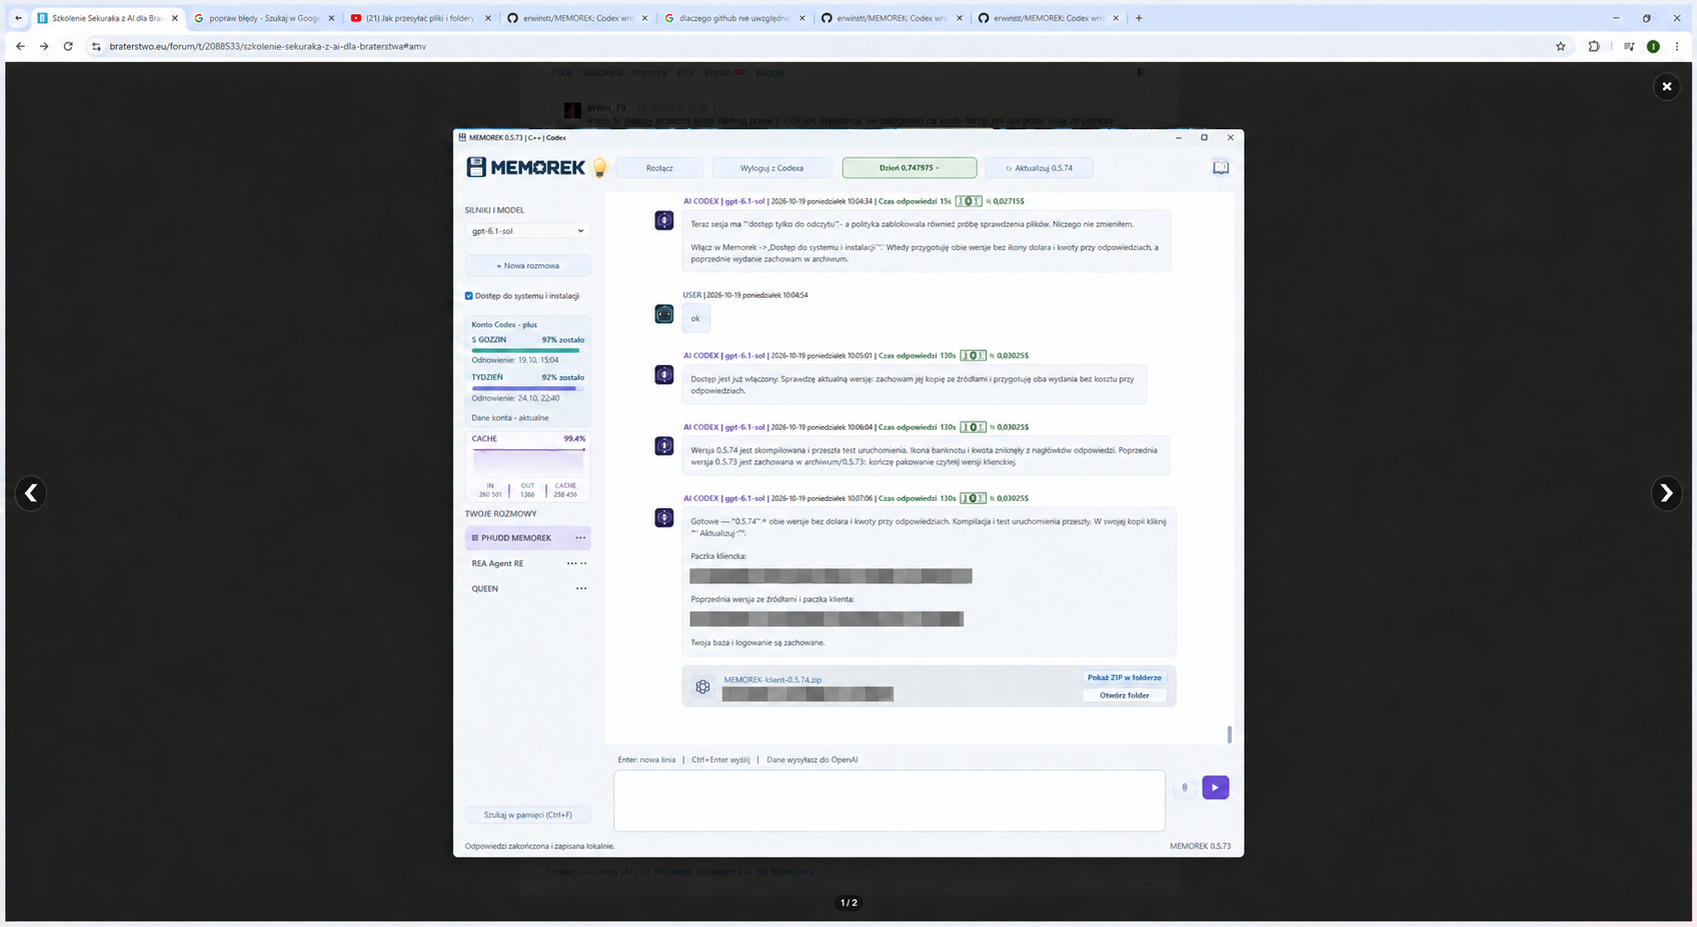
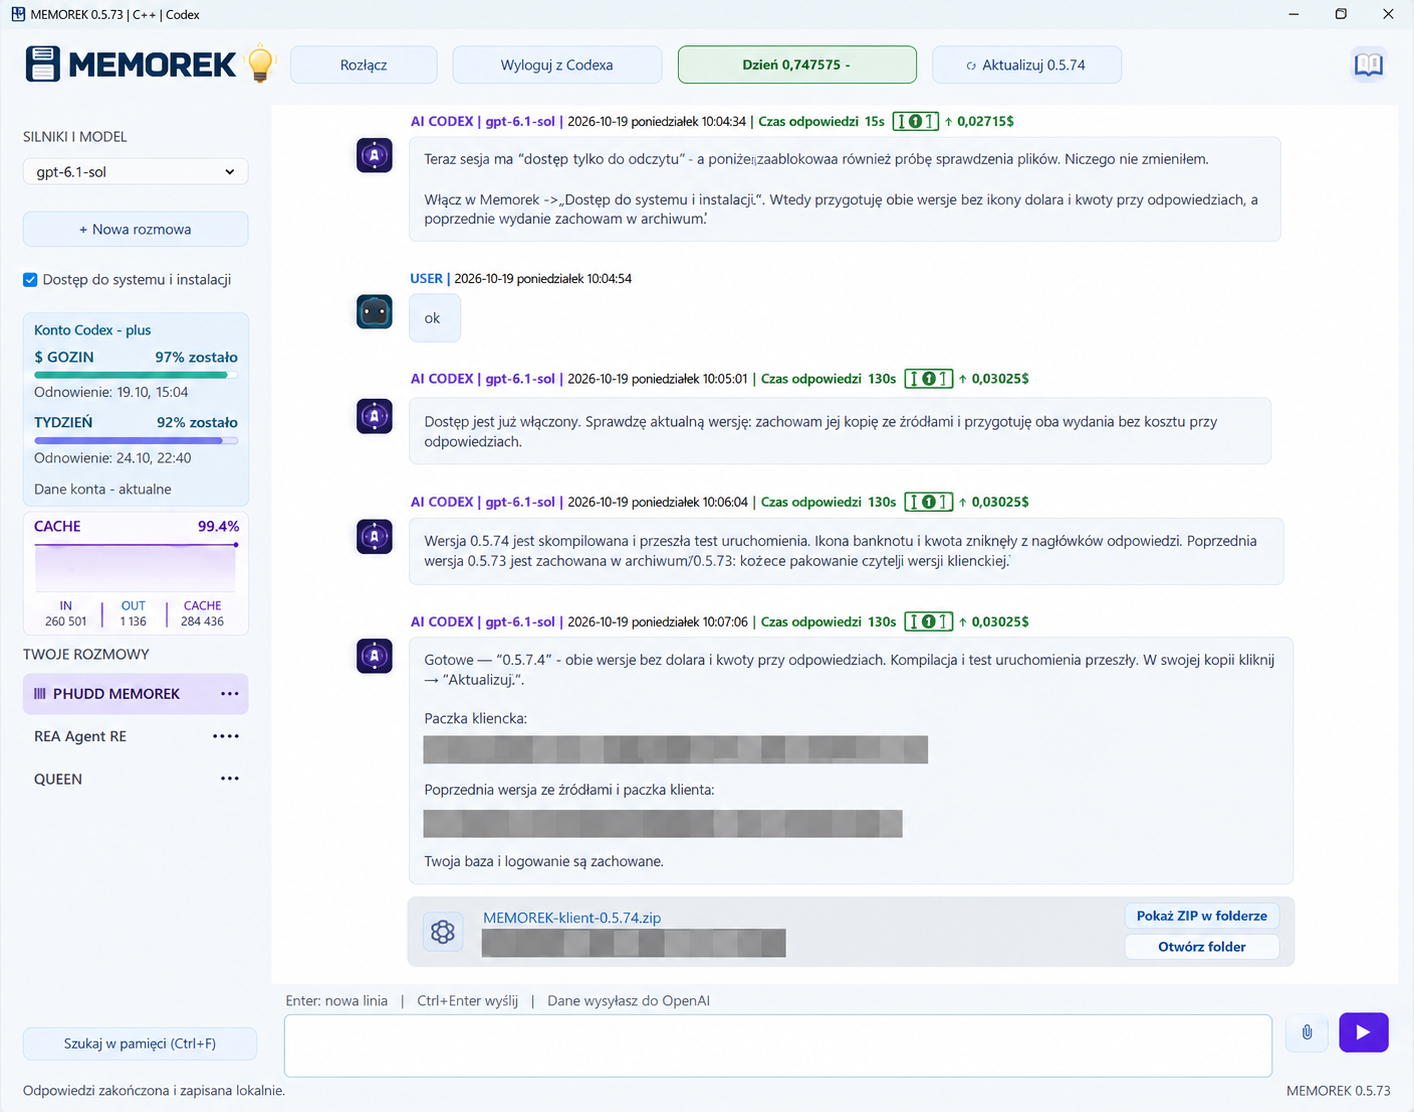
Przytnij screen do okna programu i powieksz podglad

diff --git a/README.md b/README.md
@@ -8,7 +8,9 @@ Darmowy program autorstwa **rWin**. Poniżej znajdziesz wygląd programu, jego m
 
 MEMOREK pozwala zlecać agentowi pracę nad programem: zmiany w kodzie, kompilację, testowanie i przygotowanie paczki. Na screenie widać taką rozmowę oraz przyciski otwierania folderu z wynikiem. Ścieżki do prywatnych plików są zasłonięte. Zrzut pochodzi z wersji 0.5.73; pozostałe screeny pokazują wersję 0.5.74.
 
-![Przykład pracy: agent zmienia program, kompiluje, testuje i przygotowuje paczkę](docs/screeny/07-przyklad-pracy.png)
+[![Przykład pracy: agent zmienia program, kompiluje, testuje i przygotowuje paczkę](docs/screeny/07-przyklad-pracy.png)](docs/screeny/07-przyklad-pracy.png)
+
+Kliknij obraz, aby otworzyć go w pełnym rozmiarze.
 
 ## Jak pobrać i uruchomić program?
 
